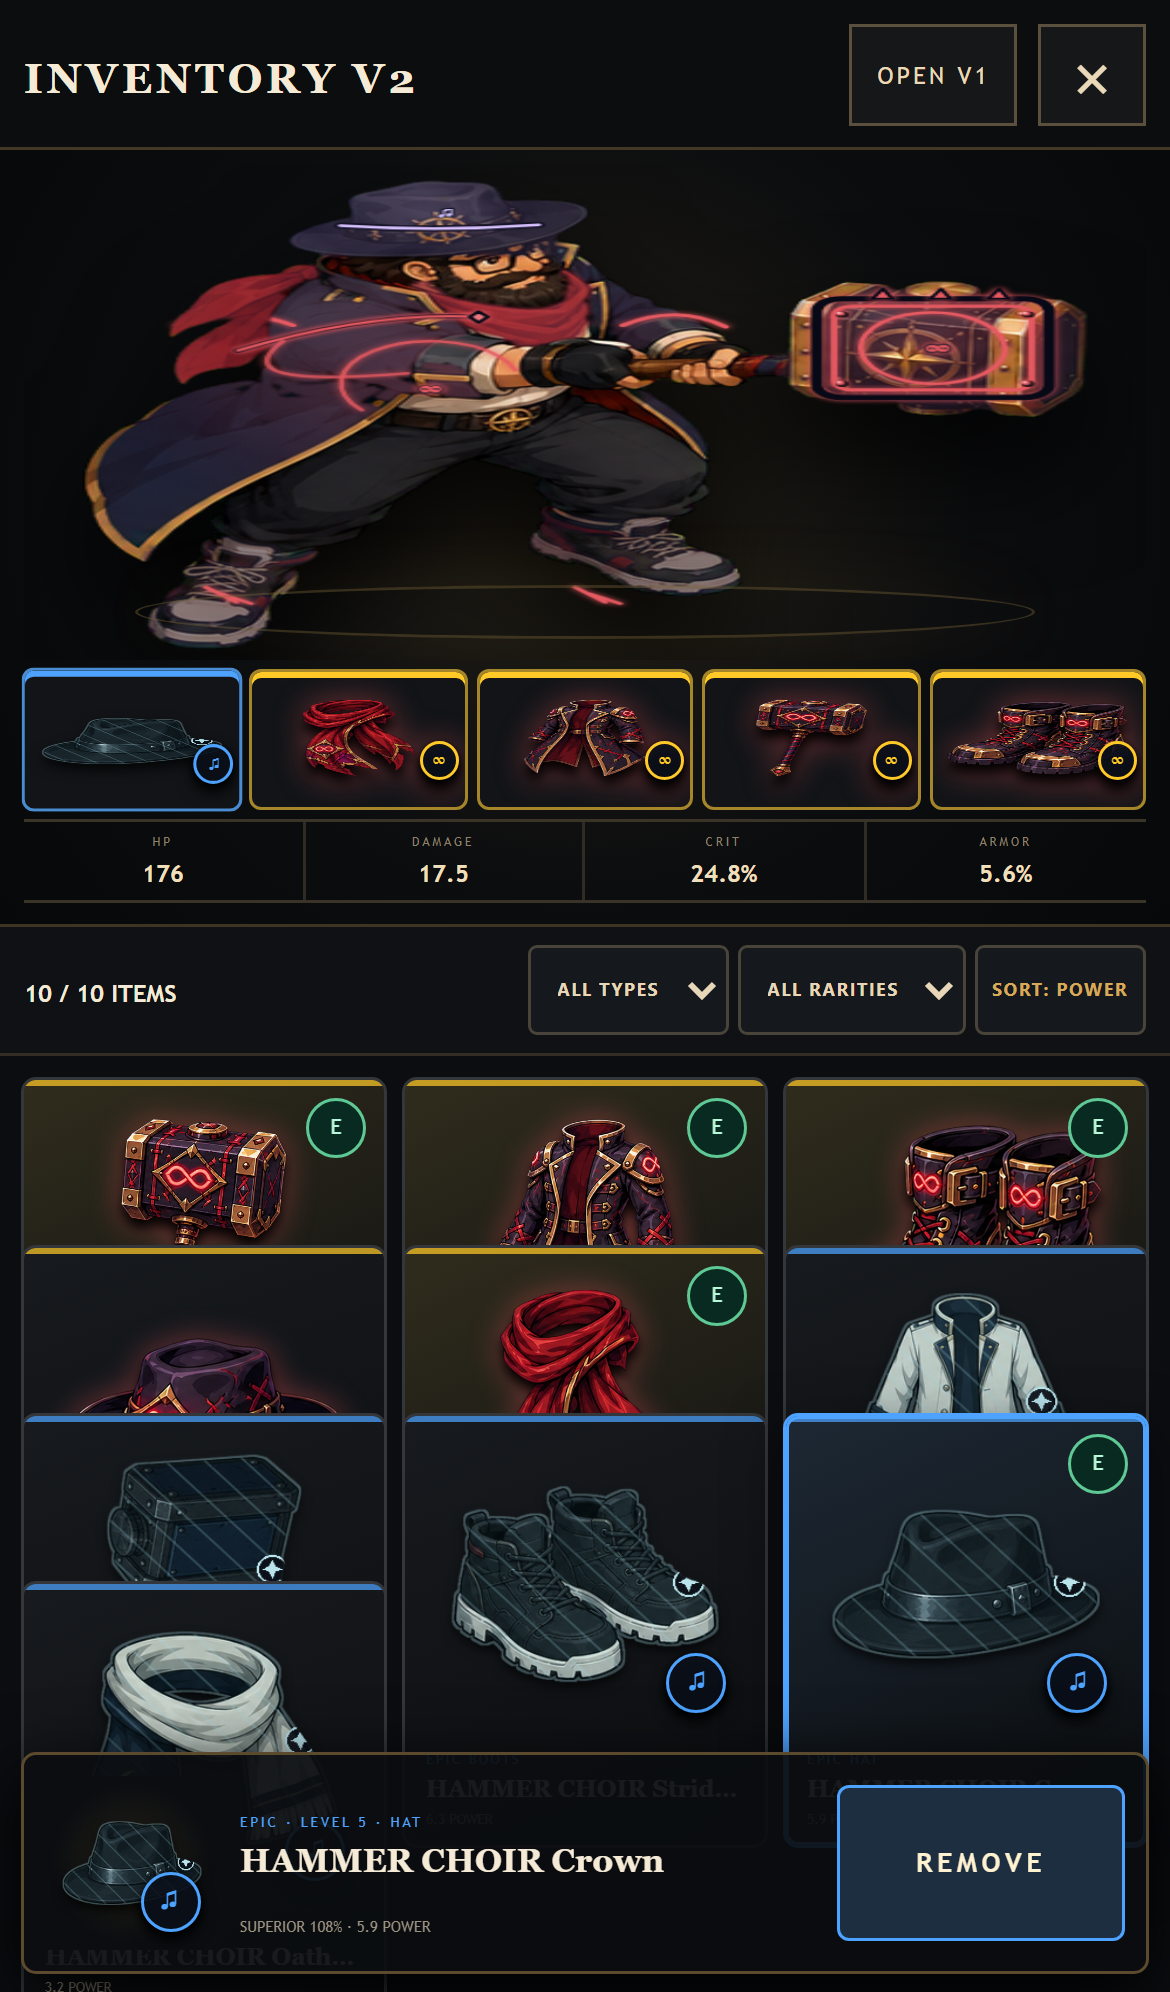
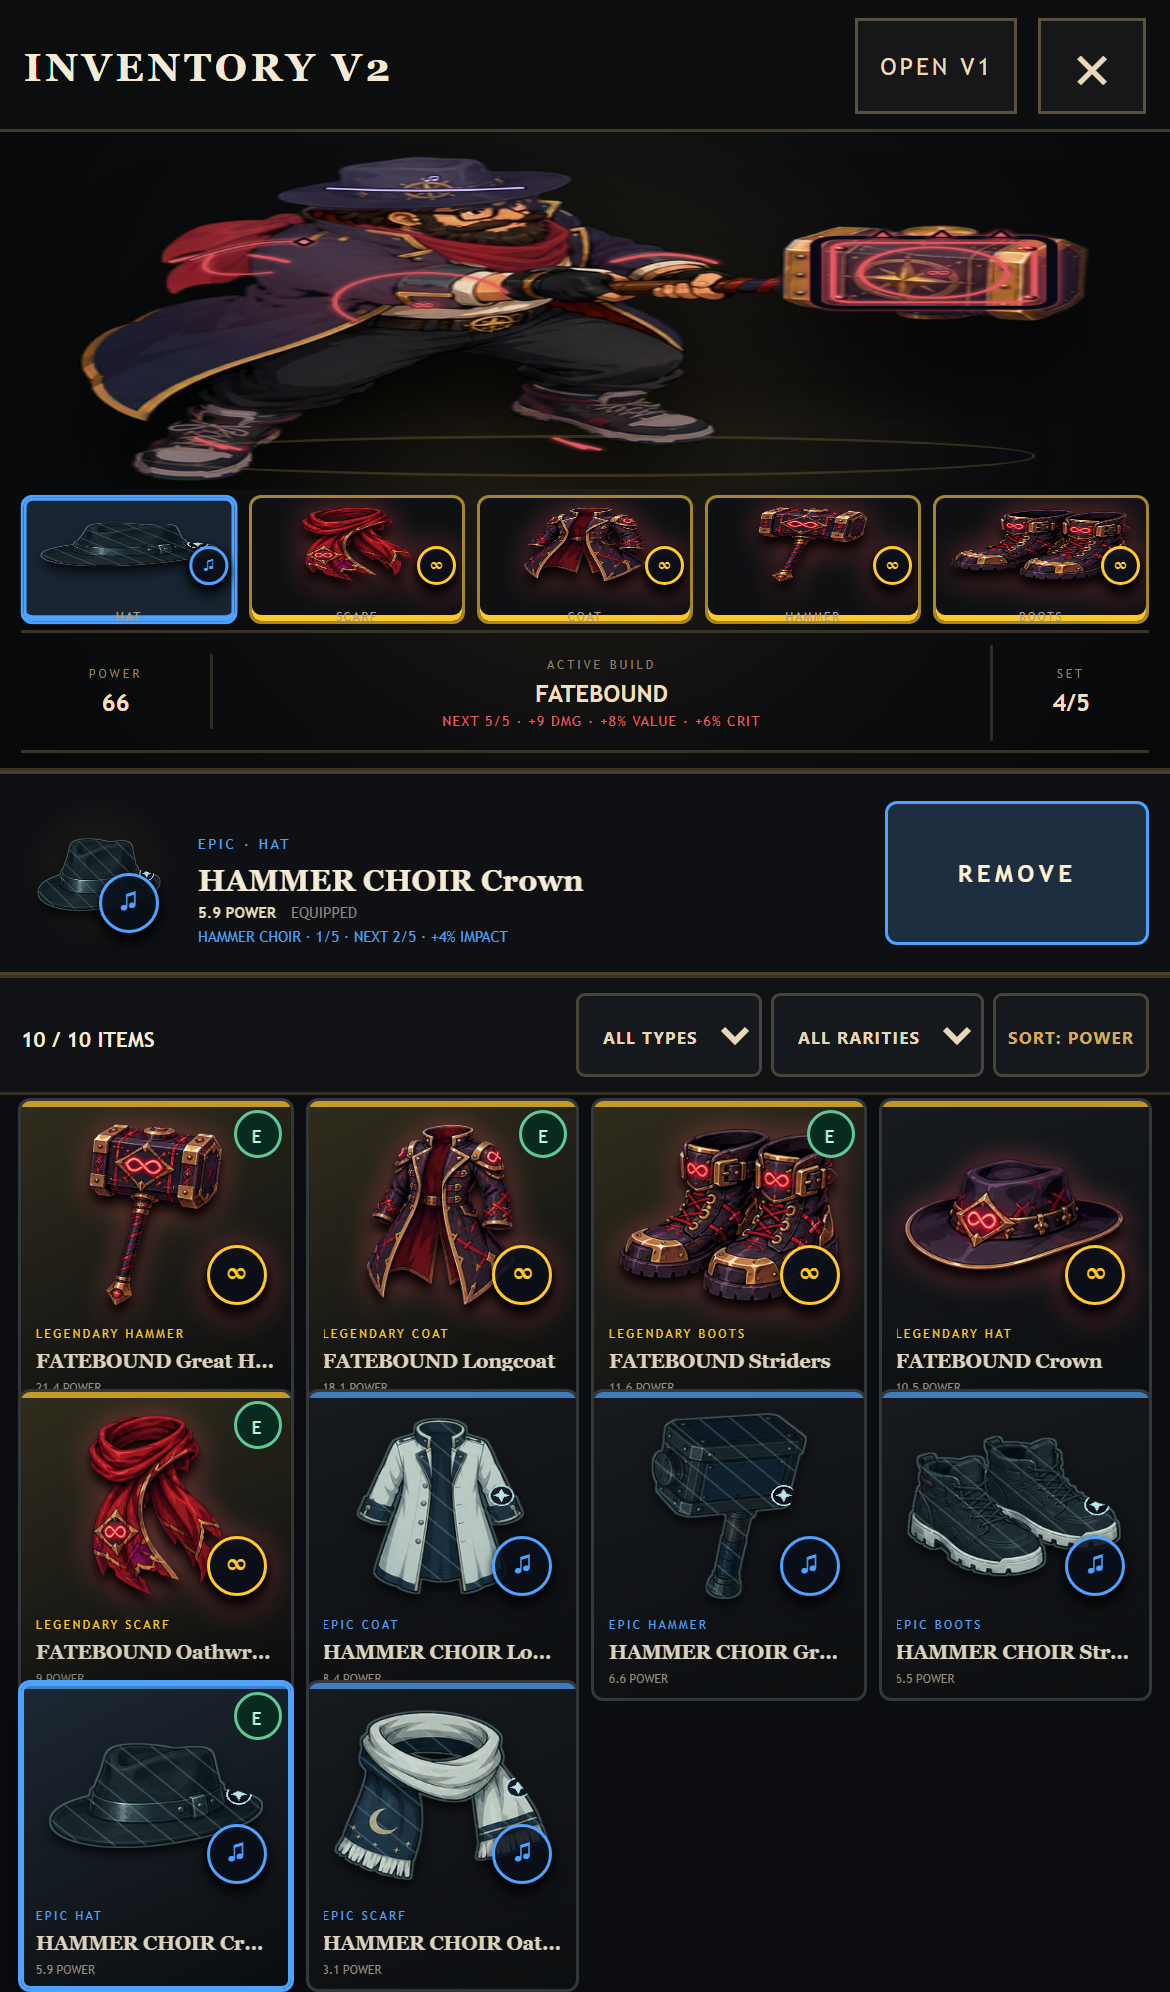
Refine Inventory V2 mobile layout

diff --git a/inventory-v2.js b/inventory-v2.js
@@ -79,12 +79,27 @@
   function renderSlots(snapshot){
     ui.slots.innerHTML=snapshot.slots.map(slot=>{
       let item=snapshot.equipped[slot.id];
-      return '<button class="inventoryV2Slot '+(item?'filled':'empty')+'" data-slot="'+slot.id+'" data-uid="'+(item?item.uid:'')+'" style="--item-color:'+(item?item.color:'#74694f')+'" type="button"><i>'+(item?item.art:slot.icon)+'</i><span><small>'+slot.name+'</small><b>'+(item?item.name:'EMPTY')+'</b></span></button>'
+      return '<button class="inventoryV2Slot '+(item?'filled':'empty')+(item&&state.selectedUid===item.uid?' selected':'')+'" data-slot="'+slot.id+'" data-uid="'+(item?item.uid:'')+'" style="--item-color:'+(item?item.color:'#74694f')+'" type="button" aria-label="'+slot.name+(item?' equipped: '+item.name:' empty')+'"><i>'+(item?item.art:slot.icon)+'</i><span><small>'+slot.name+'</small><b>'+(item?item.name:'EMPTY')+'</b></span></button>'
     }).join('')
   }
 
+  function activeBuild(snapshot){
+    let equipped=Object.values(snapshot.equipped).filter(Boolean),groups={};
+    for(let item of equipped)if(item.set){let group=groups[item.set.id]||(groups[item.set.id]={id:item.set.id,name:item.set.name,color:item.set.color,count:0,next:item.set.next});group.count++;if(item.set.next)group.next=item.set.next}
+    let set=Object.values(groups).sort((a,b)=>b.count-a.count||a.name.localeCompare(b.name))[0]||null;
+    return{power:Math.round(equipped.reduce((sum,item)=>sum+item.power,0)*10)/10,set,equipped:equipped.length}
+  }
+
+  function nextBonusText(next){
+    if(!next)return'BUILDING SET';
+    let label=String(next.label||'BONUS').replace(/^NEXT\s+/i,'');
+    return'NEXT '+label+(next.effect?' \u00B7 '+next.effect:'')
+  }
+
   function renderStats(snapshot){
-    ui.stats.innerHTML='<span><small>HP</small><b>'+snapshot.summary.hp+'</b></span><span><small>DAMAGE</small><b>'+snapshot.summary.damage+'</b></span><span><small>CRIT</small><b>'+snapshot.summary.crit+'%</b></span><span><small>ARMOR</small><b>'+snapshot.summary.armor+'%</b></span>'
+    let build=activeBuild(snapshot),set=build.set,setStatus=set?(set.count>=5?'FULL SET ACTIVE':nextBonusText(set.next)):'NO SET ACTIVE';
+    ui.stats.style.setProperty('--set-color',set?set.color:'#d6aa58');
+    ui.stats.innerHTML='<span class="inventoryV2Power"><small>POWER</small><b>'+build.power+'</b></span><span class="inventoryV2BuildIdentity"><small>'+(set?'ACTIVE BUILD':'LOADOUT')+'</small><b>'+(set?set.name:'FIELD GEAR')+'</b><em>'+setStatus+'</em></span><span class="inventoryV2SetCount"><small>SET</small><b>'+(set?set.count+'/5':build.equipped+'/5')+'</b></span>'
   }
 
   function renderGrid(snapshot){
@@ -96,9 +111,9 @@
   function renderDetail(snapshot){
     let item=selected(snapshot);
     if(!item){ui.detail.innerHTML='<div class="inventoryV2NoSelection"><i>&#9670;</i><b>SELECT GEAR</b><span>Inspect an item to compare it with the current loadout.</span></div>';return}
-    let comparison=item.comparison,rows=comparison?comparison.rows.map(row=>'<span class="'+row.tone+'"><small>'+row.label+'</small><b>'+compareFormat(row.candidate,row.type)+'</b><em>'+(row.tone==='same'?'=':(row.delta>0?'+':'')+compareFormat(row.delta,row.type))+'</em></span>').join(''):'',set=item.set;
+    let comparison=item.comparison,rows=comparison?comparison.rows.map(row=>'<span class="'+row.tone+'"><small>'+row.label+'</small><b>'+compareFormat(row.candidate,row.type)+'</b><em>'+(row.tone==='same'?'=':(row.delta>0?'+':'')+compareFormat(row.delta,row.type))+'</em></span>').join(''):'',set=item.set,worn=comparison&&snapshot.gear.find(entry=>entry.uid===comparison.wornUid),powerDelta=Math.round((item.power-(worn?worn.power:0))*10)/10,powerTone=item.equipped?'same':powerDelta>0?'gain':powerDelta<0?'loss':'same',action=item.equipped?'REMOVE':comparison&&comparison.wornUid?'REPLACE':'EQUIP';
     ui.detail.style.setProperty('--item-color',item.color);
-    ui.detail.innerHTML='<div class="inventoryV2InspectArt">'+item.art+'</div><div class="inventoryV2InspectTitle"><small>'+item.rarityName+' &middot; LEVEL '+item.level+' &middot; '+item.slotName+'</small><h2>'+item.name+'</h2><span>'+item.quality+' &middot; '+item.power+' POWER</span></div><div class="inventoryV2Comparison"><header><small>VS EQUIPPED</small><b>'+comparison.wornName+'</b></header>'+rows+'</div>'+(set?'<div class="inventoryV2Set"><span><small>'+set.name+' SET</small><b>'+set.candidate+'/5</b></span><i><em style="width:'+(set.candidate/5*100)+'%"></em></i><p>'+(set.next?set.next.label+' &middot; '+set.next.effect:'FULL SET ACTIVE')+'</p></div>':'')+'<button id="inventoryV2Equip" class="inventoryV2Equip" type="button">'+(item.equipped?'REMOVE':'EQUIP')+'</button>'
+    ui.detail.innerHTML='<div class="inventoryV2InspectArt">'+item.art+'</div><div class="inventoryV2InspectTitle"><small>'+item.rarityName+' &middot; '+item.slotName+'</small><h2>'+item.name+'</h2><span class="inventoryV2SelectionSummary"><b>'+item.power+' POWER</b><em class="'+powerTone+'">'+(item.equipped?'EQUIPPED':(powerDelta>0?'+':'')+powerDelta+' VS WORN')+'</em></span>'+(set?'<span class="inventoryV2SelectionSet">'+set.name+' &middot; '+set.candidate+'/5 &middot; '+(set.candidate>=5?'FULL SET':nextBonusText(set.next))+'</span>':'')+'</div><div class="inventoryV2Comparison"><header><small>VS EQUIPPED</small><b>'+comparison.wornName+'</b></header>'+rows+'</div>'+(set?'<div class="inventoryV2Set"><span><small>'+set.name+' SET</small><b>'+set.candidate+'/5</b></span><i><em style="width:'+(set.candidate/5*100)+'%"></em></i><p>'+(set.next?set.next.label+' &middot; '+set.next.effect:'FULL SET ACTIVE')+'</p></div>':'')+'<button id="inventoryV2Equip" class="inventoryV2Equip" type="button">'+action+'</button>'
   }
 
   function render(previewUid){

diff --git a/inventory-v2.css b/inventory-v2.css
@@ -19,3 +19,38 @@
 .inventoryV2Overlay .gearArt.legendarySprite{background-size:500% 500%}
 .inventoryV2Overlay .gearArt.blackHoleSprite,.inventoryV2Overlay .gearArt.stormcallerSprite{background-size:500% 100%}
 @media(max-width:720px){.inventoryV2Hero{background-size:400% 200%}}
+
+/* Inventory V2 hierarchy pass: character, build, selection, then bag. */
+.inventoryV2Slot.selected{border-color:var(--item-color);background:color-mix(in srgb,var(--item-color) 12%,#121417);box-shadow:inset 0 0 0 1px var(--item-color)}
+.inventoryV2BuildStats{grid-template-columns:auto minmax(0,1fr) auto;align-items:center}
+.inventoryV2BuildStats span{min-width:0;padding:7px 12px}
+.inventoryV2BuildStats small,.inventoryV2BuildStats b,.inventoryV2BuildStats em{display:block;overflow:hidden;text-overflow:ellipsis;white-space:nowrap}
+.inventoryV2BuildStats em{margin-top:3px;color:var(--set-color);font-size:6px;font-style:normal;letter-spacing:.5px}
+.inventoryV2Power,.inventoryV2SetCount{text-align:center}.inventoryV2BuildIdentity{text-align:left}
+.inventoryV2SelectionSummary{display:flex!important;align-items:center;gap:7px}.inventoryV2SelectionSummary b{color:#ead9b8}.inventoryV2SelectionSummary em{font-style:normal}.inventoryV2SelectionSummary .gain{color:#73d89b}.inventoryV2SelectionSummary .loss{color:#ed7979}.inventoryV2SelectionSummary .same{color:#8e887e}.inventoryV2SelectionSet{display:block!important;color:var(--item-color)!important}
+
+@media(max-width:720px){
+  .inventoryV2Shell{grid-template-rows:44px minmax(0,1fr)}
+  .inventoryV2Topbar{padding:4px max(8px,env(safe-area-inset-right)) 4px max(8px,env(safe-area-inset-left))}
+  .inventoryV2Topbar b{font-size:13px}.inventoryV2Legacy,.inventoryV2Close{min-height:32px}.inventoryV2Legacy{padding:0 7px}
+  .inventoryV2Workspace{grid-template-rows:clamp(210px,32vh,238px) 68px minmax(0,1fr)}
+  .inventoryV2Character{grid-row:1;padding:3px 7px 5px;grid-template-rows:minmax(0,1fr) 45px 43px}
+  .inventoryV2Hero{inset:-7% -1% -1%}
+  .inventoryV2Slots{gap:4px;padding-top:2px}
+  .inventoryV2Slot{height:43px;grid-template-columns:1fr;grid-template-rows:27px 11px;padding:2px;border-color:#302f2b;background:#0e1012}
+  .inventoryV2Slot>i{width:auto;height:27px}.inventoryV2Slot span{display:block;min-width:0;text-align:center}.inventoryV2Slot span small{font-size:4px;letter-spacing:.55px;color:#aaa087}.inventoryV2Slot span b{display:none}
+  .inventoryV2Slot.filled{box-shadow:inset 0 -2px var(--item-color)}.inventoryV2Slot.selected{box-shadow:inset 0 -2px var(--item-color),inset 0 0 0 1px var(--item-color)}
+  .inventoryV2BuildStats{height:41px;margin-top:2px;grid-template-columns:64px minmax(0,1fr) 52px}
+  .inventoryV2BuildStats span{padding:4px 7px}.inventoryV2BuildStats small{font-size:4px}.inventoryV2BuildStats b{margin-top:2px;font-size:8px}.inventoryV2BuildStats em{margin-top:2px;font-size:4.5px}
+  .inventoryV2Collection{grid-row:3}.inventoryV2CollectionHeader{padding:5px 7px}.inventoryV2CollectionHeader>span b{font-size:7px}
+  .inventoryV2Controls select,.inventoryV2Controls button{max-width:82px;height:28px;min-height:28px;padding:0 4px;font-size:5.5px}
+  .inventoryV2Grid{grid-template-columns:repeat(4,minmax(0,1fr));gap:4px;padding:6px;scroll-padding-bottom:6px}
+  .inventoryV2Card{aspect-ratio:.88;padding:3px;border-radius:4px}.inventoryV2Card:hover{transform:none}.inventoryV2CardArt{padding:2%}.inventoryV2CardCopy{padding:3px 2px 1px}.inventoryV2CardCopy b{font-size:6.5px}.inventoryV2CardCopy small,.inventoryV2CardCopy em{font-size:4px}.inventoryV2EquippedMark{right:3px;top:3px;width:16px;height:16px;font-size:6px}
+  .inventoryV2Detail{position:static;grid-row:2;width:auto;height:auto;min-height:0;display:grid;grid-template-columns:52px minmax(0,1fr) 88px;gap:7px;align-items:center;padding:5px 7px;overflow:hidden;border:0;border-top:1px solid #4b402c;border-bottom:1px solid #4b402c;border-radius:0;background:#0e1013;box-shadow:none}
+  .inventoryV2InspectArt{height:52px;background:radial-gradient(circle,#211e18,#0e1013 70%)}.inventoryV2InspectTitle h2{font-size:10px}.inventoryV2SelectionSummary{gap:5px}.inventoryV2SelectionSet{margin-top:2px}.inventoryV2Equip{height:48px;min-height:48px;font-size:8px}
+}
+@media(max-width:380px){
+  .inventoryV2Workspace{grid-template-rows:205px 66px minmax(0,1fr)}.inventoryV2Character{grid-template-rows:minmax(0,1fr) 43px 41px}
+  .inventoryV2Grid{grid-template-columns:repeat(4,minmax(0,1fr))}.inventoryV2Controls select{max-width:72px}.inventoryV2Controls button{max-width:68px}
+  .inventoryV2Detail{grid-template-columns:48px minmax(0,1fr) 76px}.inventoryV2Equip{font-size:7px}
+}

diff --git a/tests/browser/inventory-v2.spec.js b/tests/browser/inventory-v2.spec.js
@@ -47,13 +47,22 @@ test('Inventory V2 keeps character fixed while its mobile collection scrolls',as
   const layout=await page.evaluate(()=>{
     const workspace=document.querySelector('.inventoryV2Workspace').getBoundingClientRect();
     const character=document.querySelector('.inventoryV2Character').getBoundingClientRect();
+    const detail=document.querySelector('.inventoryV2Detail').getBoundingClientRect();
+    const collection=document.querySelector('.inventoryV2Collection').getBoundingClientRect();
     const grid=document.querySelector('#inventoryV2Grid');
-    return{viewport:document.documentElement.clientWidth,documentOverflow:document.documentElement.scrollWidth-document.documentElement.clientWidth,workspace:{top:workspace.top,bottom:workspace.bottom},character:{top:character.top,bottom:character.bottom},gridOverflow:grid.scrollHeight>grid.clientHeight,gridTouch:getComputedStyle(grid).overflowY}
+    const cards=[...grid.querySelectorAll('.inventoryV2Card')].slice(0,4).map(card=>card.getBoundingClientRect());
+    return{viewport:document.documentElement.clientWidth,documentOverflow:document.documentElement.scrollWidth-document.documentElement.clientWidth,workspace:{top:workspace.top,bottom:workspace.bottom},character:{top:character.top,bottom:character.bottom,height:character.height},detail:{top:detail.top,bottom:detail.bottom},collection:{top:collection.top,bottom:collection.bottom},firstRowTops:cards.map(card=>Math.round(card.top)),gridOverflow:grid.scrollHeight>grid.clientHeight,gridTouch:getComputedStyle(grid).overflowY}
   });
   expect(layout.documentOverflow).toBeLessThanOrEqual(1);
   expect(layout.character.top).toBeGreaterThanOrEqual(layout.workspace.top);
   expect(layout.character.bottom).toBeLessThan(layout.workspace.bottom);
+  expect(layout.character.height).toBeLessThanOrEqual(240);
+  expect(layout.detail.top).toBeGreaterThanOrEqual(layout.character.bottom-1);
+  expect(layout.collection.top).toBeGreaterThanOrEqual(layout.detail.bottom-1);
+  expect(new Set(layout.firstRowTops).size).toBe(1);
   expect(layout.gridTouch).toBe('auto');
+  await expect(page.locator('#inventoryV2BuildStats')).toContainText(/POWER/);
+  await expect(page.locator('#inventoryV2BuildStats')).toContainText(/SET/);
 
   const candidate=await page.evaluate(()=>window.RiskLootInventoryV2Bridge.snapshot().gear.find(item=>!item.equipped));
   await page.locator('.inventoryV2Card[data-uid="'+candidate.uid+'"]').tap();
